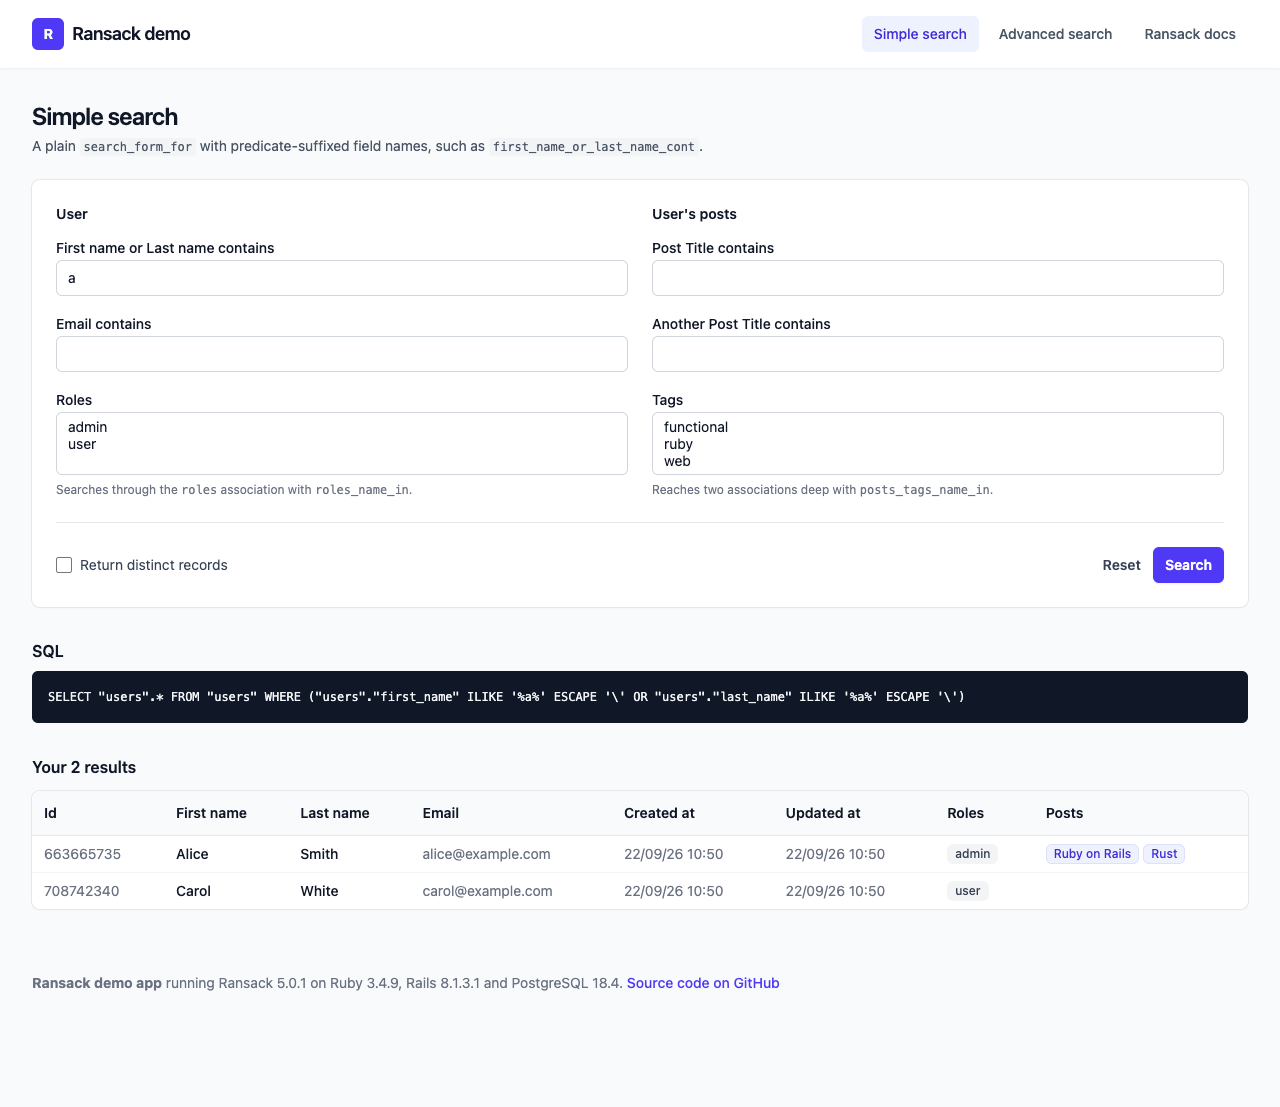
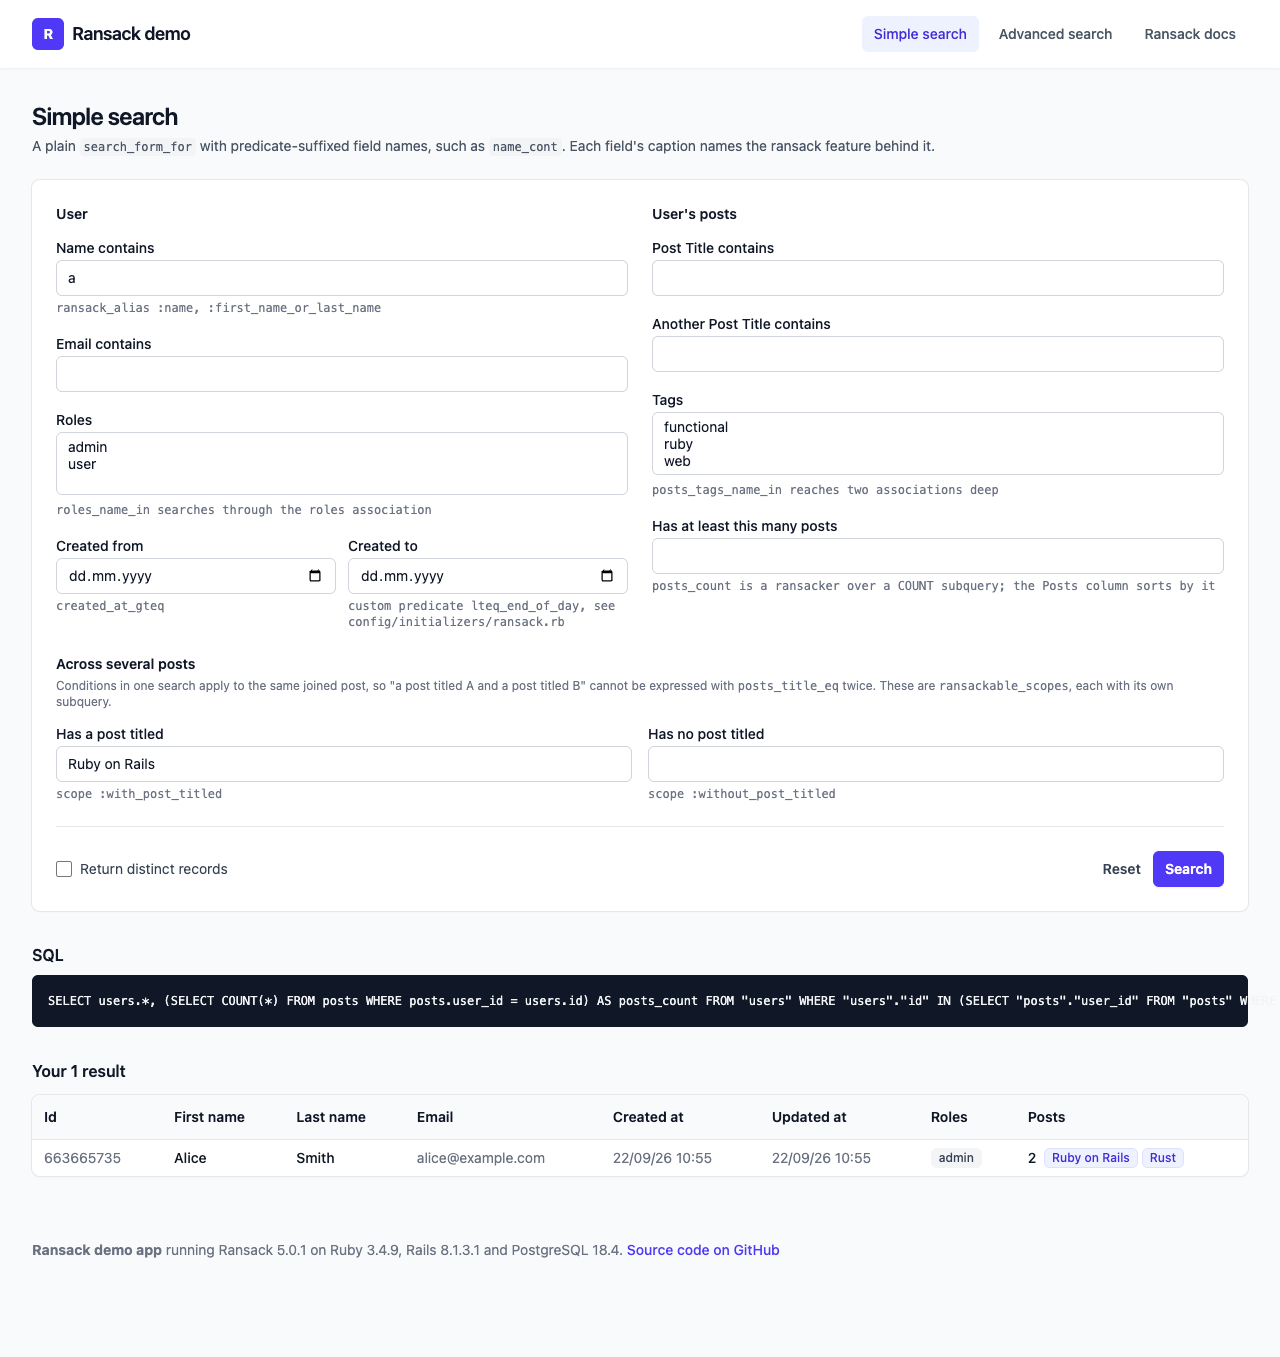
Showcase more of ransack and rewrite the README
Closes #6 and #2 with working demonstrations and model tests.

- ransack_alias :name for the simple search's name field
- ransackable_scopes with_post_titled / without_post_titled, each on its
  own subquery, for conditions that must hold across different posts (#6)
- posts_count ransacker over a COUNT subquery, filterable and sortable,
  selected alongside users.* so DISTINCT and ORDER BY coexist (#2); a
  model test shows result.group("users.id").count for per-user matches
- Custom lteq_end_of_day predicate for an inclusive created-at range
- Captions under every simple-search field naming the feature it uses
- SQL block wraps; README rewritten around a feature map

diff --git a/app/models/user.rb b/app/models/user.rb
@@ -5,6 +5,17 @@ class User < ApplicationRecord
   has_many :comments
   has_and_belongs_to_many :roles
 
+  # A ransack_alias gives a long attribute chain a short name: the simple search
+  # form uses name_cont instead of first_name_or_last_name_cont.
+  ransack_alias :name, :first_name_or_last_name
+
+  # Scopes for the question in issue #6: a single grouping ANDs its conditions
+  # on one joined row, so "posts.title = A AND posts.title = B" can never match.
+  # Each scope filters on its own subquery, so two of them combine across
+  # different posts: users with a post titled A and no post titled B.
+  scope :with_post_titled, ->(title) { where(id: Post.where(title: title).select(:user_id)) }
+  scope :without_post_titled, ->(title) { where.not(id: Post.where(title: title).select(:user_id)) }
+
   def datetime_format
     "%d/%m/%y %H:%M"
   end
@@ -21,28 +32,32 @@ class User < ApplicationRecord
     connection.execute("select version()").to_a.first["version"].first(16).strip
   end
 
-  private
-
   # Allowlist the User model attributes for sorting, except +password_digest+.
-  #
-  # The +full_name+ ransacker is also not included because error-prone in SQL
-  # ORDER clauses and provided no additional functionality over +first_name+.
+  # The +posts_count+ ransacker is sortable too; the +full_name+ ransacker is
+  # not, as it adds nothing over +first_name+ in an ORDER BY.
   #
   def self.ransortable_attributes(auth_object = nil)
-    column_names - ["password_digest"]
+    column_names - ["password_digest"] + ["posts_count"]
   end
 
   # Allowlist the User model attributes for search, except +password_digest+,
-  # as above. The +full_name+ ransacker below is included via +_ransackers.keys+
+  # as above. The ransackers below are included via +_ransackers.keys+, and
+  # the +name+ alias via +_ransack_aliases.keys+.
   #
   def self.ransackable_attributes(auth_object = nil)
-    ransortable_attributes + _ransackers.keys
+    ransortable_attributes + _ransackers.keys + _ransack_aliases.keys
   end
 
   # Allowlist the User model associations for search.
   #
   def self.ransackable_associations(auth_object = nil)
     ["posts", "other_posts", "comments", "roles"]
+  end
+
+  # Scopes must be allowlisted too before ransack will call them.
+  #
+  def self.ransackable_scopes(auth_object = nil)
+    %i[with_post_titled without_post_titled]
   end
 
   # Demonstration of using a "ransacker" (a virtual, searchable "column") to
@@ -54,4 +69,19 @@ class User < ApplicationRecord
         parent.table[:first_name], Arel::Nodes.build_quoted(" ")),
       parent.table[:last_name])
   end
+
+  # A ransacker over a correlated subquery: the number of posts a user has.
+  # Searchable (posts_count_gteq) and sortable (sort_link :posts_count), which
+  # is the closest ransack answer to issue #2.
+  #
+  POSTS_COUNT_SQL = "(SELECT COUNT(*) FROM posts WHERE posts.user_id = users.id)"
+
+  ransacker :posts_count, type: :integer do
+    Arel.sql(POSTS_COUNT_SQL)
+  end
+
+  # Also select the count, so it is available as +user.posts_count+ and so
+  # PostgreSQL accepts ORDER BY posts_count together with DISTINCT (an ORDER BY
+  # expression must appear in the select list of a SELECT DISTINCT).
+  scope :with_posts_count, -> { select("users.*", "#{POSTS_COUNT_SQL} AS posts_count") }
 end

diff --git a/test/models/user_test.rb b/test/models/user_test.rb
@@ -1,6 +1,40 @@
 require "test_helper"
 
 class UserTest < ActiveSupport::TestCase
+  test "name alias searches first or last name" do
+    assert_equal [users(:alice)], User.ransack(name_cont: "ali").result.to_a
+    assert_equal [users(:bob)], User.ransack(name_eq: "Jones").result.to_a
+  end
+
+  test "scopes combine conditions across different posts" do
+    assert_equal [users(:alice)],
+      User.ransack(with_post_titled: "Ruby on Rails", without_post_titled: "Elixir").result.to_a
+    assert_equal [], User.ransack(with_post_titled: "Ruby on Rails", without_post_titled: "Rust").result.to_a
+    assert_equal User.count, User.ransack(with_post_titled: "").result.count
+  end
+
+  test "posts_count ransacker filters and sorts" do
+    assert_equal [users(:alice)], User.ransack(posts_count_gteq: 2).result.to_a
+    assert_equal [users(:alice), users(:bob), users(:carol)],
+      User.ransack(s: "posts_count desc").result.to_a
+  end
+
+  test "posts_count sorts with distinct results and a join" do
+    users = User.with_posts_count.ransack(posts_title_cont: "R", s: "posts_count desc").result(distinct: true)
+    assert_equal [["Alice", 2], ["Bob", 1]], users.map { |u| [u.first_name, u.posts_count] }
+  end
+
+  test "counting the posts that matched the search, per user" do
+    counts = User.ransack(posts_title_cont: "R").result.group("users.id").count
+    assert_equal({users(:alice).id => 2, users(:bob).id => 1}, counts)
+  end
+
+  test "custom end-of-day predicate widens a date to the end of that day" do
+    day = users(:alice).created_at.to_date
+    assert_includes User.ransack(created_at_lteq_end_of_day: day.to_s).result, users(:alice)
+    assert_not_includes User.ransack(created_at_lteq: day.to_s).result, users(:alice)
+  end
+
   test "full_name ransacker searches the concatenated name" do
     assert_equal [users(:alice)], User.ransack(full_name_eq: "Alice Smith").result.to_a
   end

diff --git a/test/controllers/users_controller_test.rb b/test/controllers/users_controller_test.rb
@@ -8,10 +8,29 @@ class UsersControllerTest < ActionDispatch::IntegrationTest
     assert_result_emails %w[alice@example.com bob@example.com carol@example.com]
   end
 
-  test "index filters by name" do
-    get users_url, params: {q: {first_name_or_last_name_cont: "ali"}}
+  test "index filters by name through the alias" do
+    get users_url, params: {q: {name_cont: "ali"}}
     assert_response :success
     assert_result_emails %w[alice@example.com]
+    assert_select "input[name='q[name_cont]'][value=ali]"
+  end
+
+  test "index filters across several posts with scopes" do
+    get users_url, params: {q: {with_post_titled: "Ruby on Rails", without_post_titled: "Elixir"}}
+    assert_result_emails %w[alice@example.com]
+    assert_select "input[name='q[with_post_titled]'][value='Ruby on Rails']"
+  end
+
+  test "index filters and sorts by posts count" do
+    get users_url, params: {q: {posts_count_gteq: 1, s: "posts_count desc"}, distinct: 1}
+    assert_result_emails %w[alice@example.com bob@example.com]
+    assert_select "th a.sort_link.desc", /Posts/
+  end
+
+  test "index filters by a created date range" do
+    day = users(:alice).created_at.to_date.to_s
+    get users_url, params: {q: {created_at_gteq: day, created_at_lteq_end_of_day: day}}
+    assert_select "h2", "Your 3 results"
   end
 
   test "index filters through the posts association" do

diff --git a/config/initializers/ransack.rb b/config/initializers/ransack.rb
@@ -1,0 +1,10 @@
+Ransack.configure do |config|
+  # A custom predicate. created_at_lteq_end_of_day takes a date and widens it
+  # to the last moment of that day, so a "to" date in a range is inclusive.
+  # The value is cast to :datetime before the formatter runs.
+  config.add_predicate "lteq_end_of_day",
+    arel_predicate: "lteq",
+    formatter: ->(value) { value.end_of_day },
+    validator: ->(value) { value.present? },
+    type: :datetime
+end

diff --git a/app/helpers/users_helper.rb b/app/helpers/users_helper.rb
@@ -54,7 +54,8 @@ module UsersHelper
     end
   end
 
-  def sort_header(search, field)
-    sort_link search, field, class: "group inline-flex items-center gap-1 text-gray-900 hover:text-indigo-600"
+  def sort_header(search, field, label = nil)
+    sort_link search, field, *[label].compact,
+      class: "group inline-flex items-center gap-1 text-gray-900 hover:text-indigo-600"
   end
 end

diff --git a/app/helpers/application_helper.rb b/app/helpers/application_helper.rb
@@ -90,6 +90,11 @@ module ApplicationHelper
     ])
   end
 
+  # A one-line note under a form field naming the ransack feature it uses.
+  def caption(text)
+    tag.p text, class: "mt-1 font-mono text-xs text-gray-500"
+  end
+
   def nav_link(label, path)
     active = current_page?(path)
     link_to label, path, class: [

diff --git a/app/controllers/users_controller.rb b/app/controllers/users_controller.rb
@@ -15,7 +15,7 @@ class UsersController < ApplicationController
   private
 
   def ransack_params
-    User.includes(:posts, :roles).ransack(params[:q])
+    User.with_posts_count.includes(:posts, :roles).ransack(params[:q])
   end
 
   def ransack_result

diff --git a/README.md b/README.md
@@ -1,31 +1,57 @@
 # Ransack Demo Application
 
-This is a quick demonstration of how you might use
-[Ransack](https://github.com/activerecord-hackery/ransack) in a Rails 8
-application to create an "advanced" search form, with nesting, etc.
+A small Rails 8 application showing how to use
+[Ransack](https://github.com/activerecord-hackery/ransack) for both a simple
+search form and an "advanced" search form with nested condition groups. It runs
+at https://ransack-demo.herokuapp.com.
 
 ![Simple search](docs/screenshots/simple-search.png)
 
 ![Advanced search](docs/screenshots/advanced-search.png)
 
-The main things you'll want to note are:
+## What it demonstrates
 
-* app/models/user.rb - Demonstration of:
-  - using a "ransacker" (a virtual, searchable "column") to allow searching on
-    full names from concatenated first and last names.
-  - whitelisting attributes allowed for searching using `ransackable_attributes`.
-  - whitelisting attributes allowed for sorting using `ransortable_attributes`.
-* app/views/users/ - Search form and various partials used in dynamic form.
-* app/helpers/application_helper.rb - `grouping_template`, which renders the
-  condition-group fields once into a `<template>`, since we can't dynamically
-  create grouping templates in Ruby (groupings can contain other groupings,
-  would end up in infinite recursion). `button_to_add_fields` renders each set
-  of fields into a `<template>` next to its button, much like the nested field
-  helpers in Ryan Bates'
-  [Railscast #197](http://railscasts.com/episodes/197-nested-model-form-part-2).
-* app/javascript/controllers/search_controller.js - a Stimulus controller that
-  adds and removes fields, and nests groupings by re-parenting the grouping
-  template.
+Every field on the simple search page carries a caption naming the ransack
+feature behind it. The map, by file:
+
+| Feature | Where |
+| --- | --- |
+| `search_form_for` with predicate-suffixed fields (`name_cont`, `email_cont`, `posts_title_cont`) | `app/views/users/index.erb` |
+| `ransack_alias :name, :first_name_or_last_name` | `app/models/user.rb` |
+| Searching through associations, one and two levels deep (`roles_name_in`, `posts_tags_name_in`) | `app/models/user.rb`, `app/models/post.rb` |
+| A `ransacker` over a concatenation (`full_name`) and one over a `COUNT` subquery (`posts_count`), used to filter and to sort | `app/models/user.rb` |
+| `ransackable_scopes`: conditions that must hold across *different* posts (`with_post_titled`, `without_post_titled`) | `app/models/user.rb` |
+| A custom predicate, `lteq_end_of_day`, for inclusive date ranges | `config/initializers/ransack.rb` |
+| Allowlisting with `ransackable_attributes`, `ransortable_attributes`, `ransackable_associations` and `ransackable_scopes` | every model |
+| `sort_link` in table headers, including on a ransacker | `app/views/users/_results.erb` |
+| `result(distinct: true)` and the PostgreSQL `SELECT DISTINCT` / `ORDER BY` rule it runs into | `app/models/user.rb` (`with_posts_count`) |
+| Advanced search: `attribute_select`, `predicate_select`, `combinator_select`, `sort_select`, nested `grouping_fields` | `app/views/users/advanced_search.erb` and partials |
+| Selects instead of text fields for attributes with a known set of values | `app/helpers/users_helper.rb` (`value_options`) |
+| Which predicates accept several values (`in`, `not_in`, `_any`, `_all`) | `app/helpers/application_helper.rb` (`multi_value_predicates`) |
+| The generated SQL for every search, printed under the form | `app/views/users/_results.erb` |
+
+Two questions from the issue tracker are answered in the model tests,
+`test/models/user_test.rb`:
+
+- *Users who have a post titled A and a post titled B* (#6): two conditions in
+  one search apply to the same joined row, so use scopes, each with its own
+  subquery.
+- *How many of a user's posts matched the search* (#2):
+  `search.result.group("users.id").count`, because a non-distinct result has one
+  row per matching post.
+
+## How the advanced form works
+
+- `app/helpers/application_helper.rb` renders each set of fields (sort,
+  condition, value, grouping) once into a `<template>` next to its button
+  (`button_to_add_fields`). Groupings can contain groupings, which Ruby cannot
+  render recursively, so `grouping_template` renders the group fields once under
+  the placeholder object name `new_object_name`.
+- `app/javascript/controllers/search_controller.js` is a Stimulus controller that
+  clones those templates, stamps a unique index into the placeholder
+  (`new_condition`, `new_value`, ...), and re-parents the grouping template on
+  each nest. It also keeps the value field in step with the chosen attribute and
+  predicate.
 
 The UI is [Tailwind CSS](https://tailwindcss.com) via `tailwindcss-rails`, with
 JavaScript served through import maps; there is no Node toolchain.
@@ -33,9 +59,15 @@ JavaScript served through import maps; there is no Node toolchain.
 ## Running locally
 
 ```sh
-bin/setup        # bundle, create and seed the PostgreSQL database, start the server
-bin/rails test   # unit and integration tests
+bin/setup               # bundle, create and seed the PostgreSQL database, start the server
+bin/rails test          # unit and integration tests
 bin/rails test:system   # browser tests of the dynamic form (needs Chrome)
 ```
 
-Let us know if you have any questions, and happy ransacking!
+## Deploying
+
+Every push to `main` that passes CI is shipped to Heroku by the `deploy` job in
+`.github/workflows/ci.yml`. The job needs a repository secret named
+`HEROKU_API_KEY` (a token from `heroku authorizations:create`), and reads the
+app name from an optional `HEROKU_APP_NAME` repository variable, defaulting to
+`ransack-demo`. A hand-run deploy is just `git push heroku main`.
